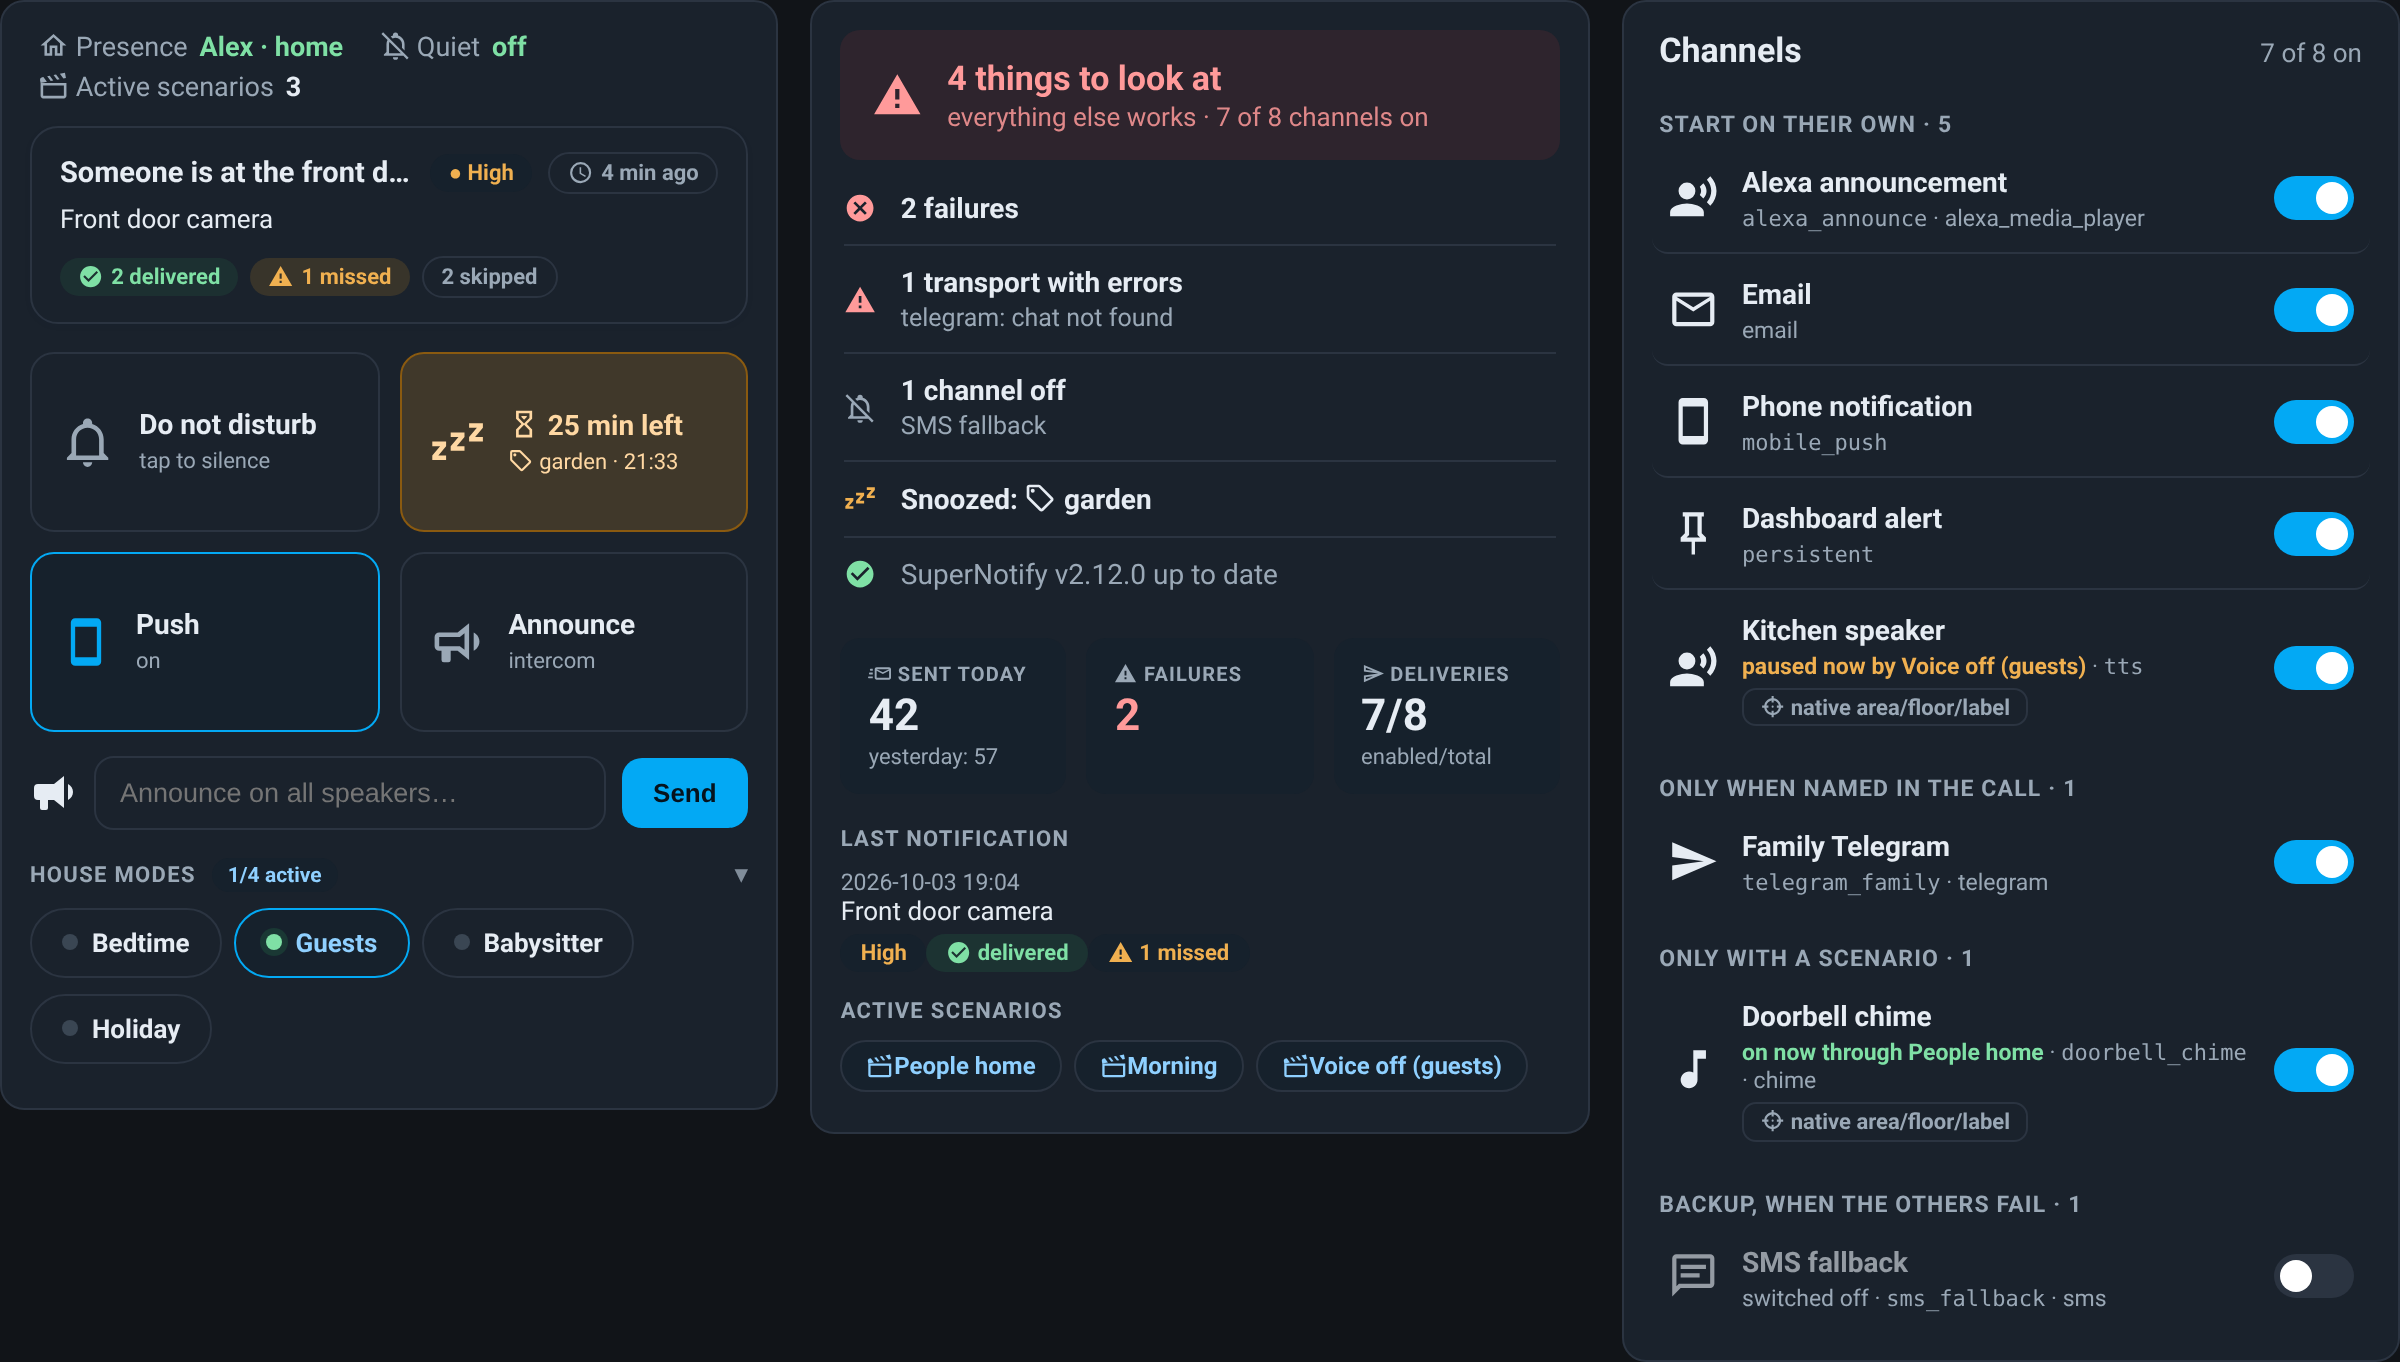
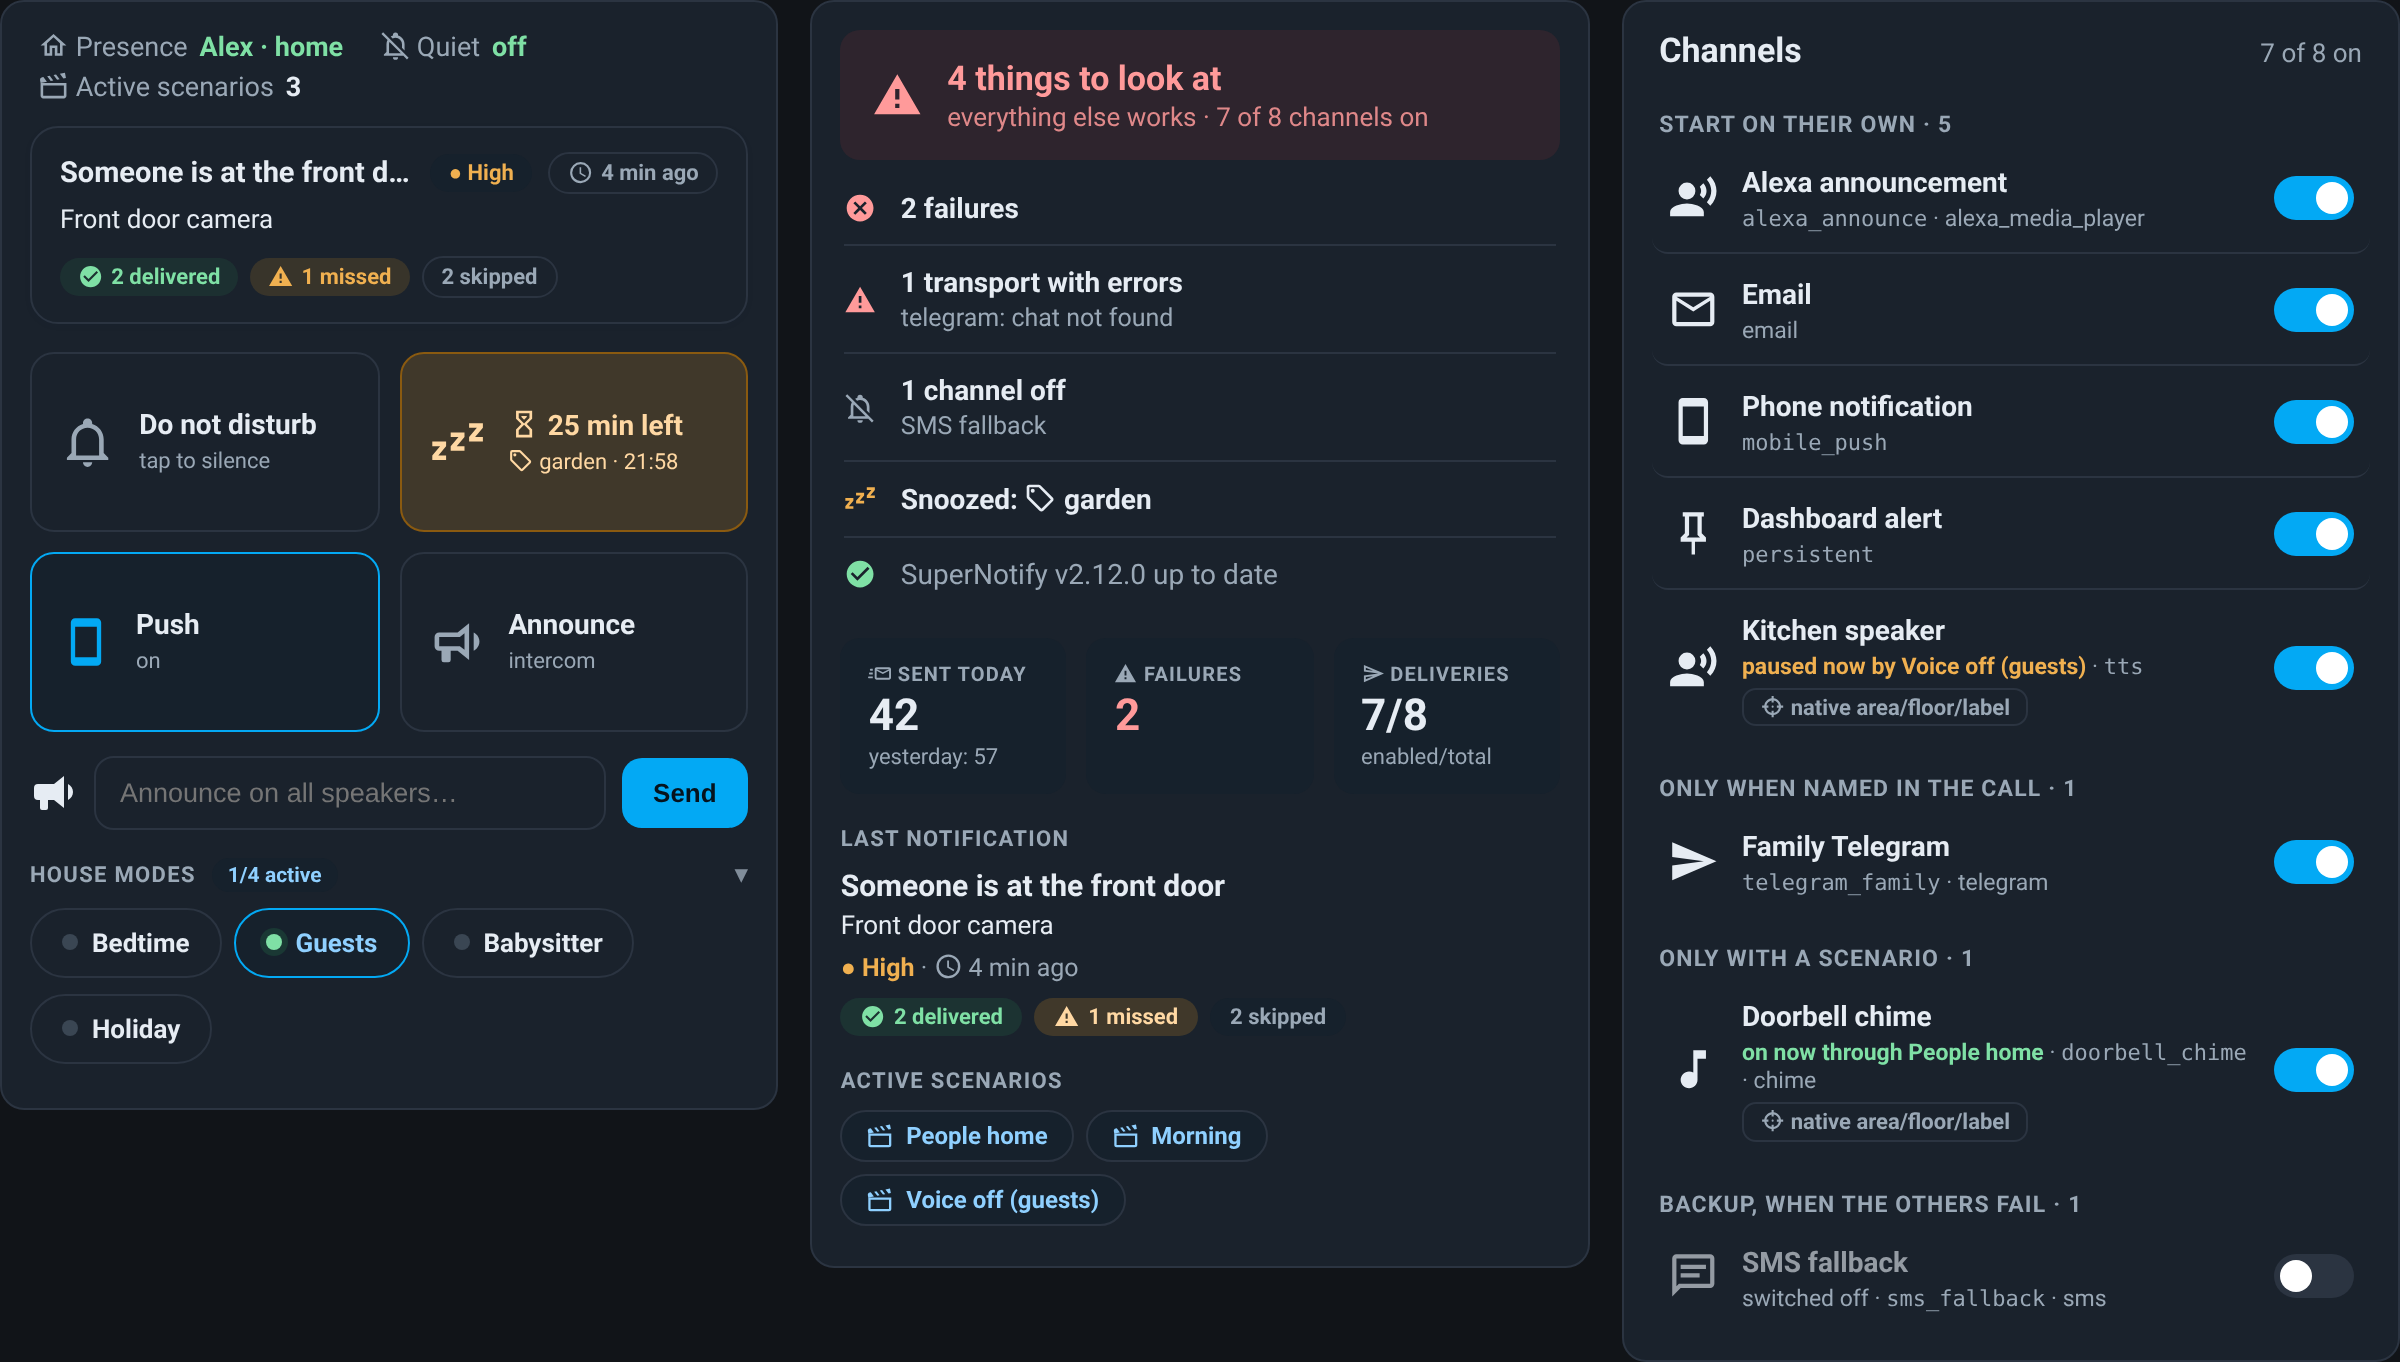
v0.56.1: overview 5 numbers without a hole, untitled message as plain text, markdown cleaned, scenario chip spacing
Claude-Session: https://claude.ai/code/session_01ALt6dhzSXi9QkgiwPM6yvM

Changed region(s): [[0.3438, 0.6476, 0.625, 0.8018], [0.3438, 0.8326, 0.5312, 0.8943]]

diff --git a/dist/supernotify-control-card.js b/dist/supernotify-control-card.js
@@ -8,6 +8,12 @@
  * Example config: see README.md
  *
  * CHANGELOG
+ * 2026-10-03 - v0.56.1. Fixes seen on a real dashboard: overview-card 0.28.1 - with `stats: full`
+ *   the five numbers sit 3+2 (one row when the card is wide) instead of leaving a hole, four sit
+ *   2+2; a last notification without a title is shown as plain text, not as a bold headline,
+ *   clamped to three lines instead of cut mid-word; space between icon and name in the scenario
+ *   chips. control-card 0.29.1 and overview: markdown in the message ([text](url), **bold**,
+ *   `code`) is shown as plain text (new shared helper snPlainMsg).
  * 2026-10-03 - v0.56.0. overview-card 0.28.0: the last notification reads like the control card's -
  *   title, message, priority and "4 min ago" instead of a raw timestamp, channel counts with the
  *   names in the tooltip ("2 delivered", "1 missed", "2 skipped"), and Why ›. `last_notification:
@@ -351,7 +357,7 @@
  *   Backup of the pre-change file: X:\sn_backups\supernotify_cards_20260908\supernotify-control-card_pre_toggle.js
  */
 
-const VERSION = "0.56.0"; // bundle / HACS release
+const VERSION = "0.56.1"; // bundle / HACS release
 
 /**
  * Per-card versions: bumped ONLY when that card changes (the bundle VERSION
@@ -362,8 +368,8 @@ const VERSION = "0.56.0"; // bundle / HACS release
  * without a bump here.
  */
 const SN_CARD_VERSIONS = {
-  control: "0.29.0",
-  overview: "0.28.0",
+  control: "0.29.1",
+  overview: "0.28.1",
   bands: "0.18.0",
   deliveries: "0.25.0",
   transports: "0.22.0",
@@ -783,6 +789,20 @@ function snIconify(html, cfg) {
  * Singular or plural (0.54.0): T[key + "_1"] when n is 1 and the language has a singular,
  * else T[key]. snPl() gives "1 channel off" / "3 channels off".
  */
+/**
+ * Message text for a card (0.56.1): markdown links become their text, **bold**, `code` and
+ * heading marks go, so "[Clock Weather Card Update](https://github.com/...)" reads as
+ * "Clock Weather Card Update" instead of the raw link.
+ */
+function snPlainMsg(s) {
+  return String(s == null ? "" : s)
+    .replace(/!?\[([^\]]*)\]\((?:[^()]|\([^)]*\))*\)/g, "$1")
+    .replace(/(\*\*|__)(.+?)\1/g, "$2")
+    .replace(/`([^`]+)`/g, "$1")
+    .replace(/^#{1,6}\s+/gm, "")
+    .replace(/[ \t]+\n/g, "\n").trim();
+}
+
 function snW(T, key, n) {
   return (+n === 1 && T[key + "_1"]) || T[key] || key;
 }
@@ -1953,7 +1973,7 @@ class SupernotifyControlCard extends HTMLElement {
     const n = this._last;
     const titleFromEntity = c.last_notification_entity ? this._st(c.last_notification_entity) : undefined;
     const title = (n && n.title) || (titleFromEntity && !["unknown", "unavailable", ""].includes(titleFromEntity) ? titleFromEntity : "");
-    let msg = (n && n.message) || "";
+    let msg = snPlainMsg(n && n.message);
     if (c.last_notification_strip) {
       try { msg = msg.replace(new RegExp(c.last_notification_strip, "m"), "").trim(); } catch (e) { /* bad regex: ignore */ }
     }
@@ -2343,9 +2363,19 @@ class SupernotifyOverviewCard extends HTMLElement {
     const p = this._palette();
     this.shadowRoot.innerHTML = snIconify(`
       <style>
-        :host { display: block; }
+        :host { display: block; container-type: inline-size; }
         ha-card { padding: 14px; background: ${p.panel}; color: ${p.ink}; }
         .stats { display: grid; grid-template-columns: repeat(auto-fit, minmax(110px, 1fr)); gap: 10px; }
+        /* 0.56.1: no hole in the grid - 4 numbers 2+2, 5 numbers 3+2 (one row when the card is wide) */
+        .stats[data-n="4"] { grid-template-columns: repeat(2, 1fr); }
+        .stats[data-n="5"] { grid-template-columns: repeat(6, 1fr); }
+        .stats[data-n="5"] .stat { grid-column: span 2; }
+        .stats[data-n="5"] .stat:nth-child(n+4) { grid-column: span 3; }
+        @container (min-width: 620px) {
+          .stats[data-n="4"] { grid-template-columns: repeat(4, 1fr); }
+          .stats[data-n="5"] { grid-template-columns: repeat(5, 1fr); }
+          .stats[data-n="5"] .stat, .stats[data-n="5"] .stat:nth-child(n+4) { grid-column: auto; }
+        }
         .stat { border: 0; border-radius: 10px; padding: 12px 14px; background: ${p.soft}; }
         .stat .k { font-size: 10px; letter-spacing: .06em; text-transform: uppercase;
                    font-weight: 800; color: ${p.muted}; white-space: nowrap; }
@@ -2363,12 +2393,15 @@ class SupernotifyOverviewCard extends HTMLElement {
         .b-crit { background: rgba(226,60,60,.12); color: ${p.crit}; }
         .lastmsg { font-size: 13px; }
         .lastmsg .t { color: ${p.muted}; font-size: 12.5px; margin-top: 3px; }
-        .lastmsg .lt { font-size: 15px; font-weight: 600; } .lastmsg .lmm { margin-top: 2px; }
+        .lastmsg .lt { font-size: 15px; font-weight: 600; overflow-wrap: anywhere; }
+        .lastmsg .lmm { margin-top: 2px; line-height: 1.45; overflow-wrap: anywhere; white-space: pre-line;
+                        display: -webkit-box; -webkit-box-orient: vertical; -webkit-line-clamp: 3; overflow: hidden; }
+        .lastmsg .lmm.solo { margin-top: 0; font-size: 14px; }
         .lastmsg .lf { display: flex; flex-wrap: wrap; gap: 6px; align-items: center; margin-top: 8px; }
         .lastmsg .badge { display: inline-flex; align-items: center; gap: 4px; }
         .whyb { margin-left: auto; border: 1.5px solid ${p.line}; background: ${p.panel}; color: ${p.brandD};
                 border-radius: 999px; padding: 5px 12px; font: inherit; font-size: 12px; font-weight: 700; cursor: pointer; }
-        .chip { display: inline-flex; border: 1.5px solid ${p.line}; border-radius: 999px;
+        .chip { display: inline-flex; align-items: center; gap: 6px; border: 1.5px solid ${p.line}; border-radius: 999px;
                 padding: 5px 12px; font-size: 12px; font-weight: 650; margin: 0 6px 6px 0;
                 background: ${p.soft}; color: ${p.brandD}; }
         .ver { text-align: right; font-size: 10px; color: ${p.muted}; opacity: .7; margin-top: 10px; }
@@ -2466,7 +2499,8 @@ class SupernotifyOverviewCard extends HTMLElement {
       }
       healthEl.innerHTML = snIconify(html, this && this._config);
     }
-    this.shadowRoot.getElementById("stats").innerHTML =
+    const statsEl = this.shadowRoot.getElementById("stats");
+    statsEl.innerHTML =
       snIconify(sentStat +
       stat("⚠ " + T.failures, failures != null ? esc(failures) : "—", "", +failures > 0 ? p.crit : p.ok) +
       (this._config.stats === "full" ? stat("🎬 " + T.act_scen, act ? act.length : "—", "") : "") +
@@ -2475,11 +2509,12 @@ class SupernotifyOverviewCard extends HTMLElement {
 
     // 0.56.0: same reading as the control card - title, message, priority and "4 min ago",
     // channel counts, Why ›. `last_notification: false` hides the block (the control card has it).
+    statsEl.dataset.n = statsEl.children.length;
     const lastEl = this.shadowRoot.getElementById("last");
     if (lastEl && this._last) {
       const n = this._last;
-      const title = n.title || "";
-      const msg = (n.message || "").slice(0, 140);
+      const title = snPlainMsg(n.title);
+      const msg = snPlainMsg(n.message).slice(0, 600);
       const prioCol = { critical: p.crit, high: p.warn, medium: p.brandD, low: p.muted, minimum: p.muted }[n.priority];
       const d = n.created ? new Date(n.created) : null;
       const meta = [n.priority ? `<span style="color:${prioCol || p.muted};font-weight:600">● ${esc(T["prio_" + n.priority] || n.priority)}</span>` : "",
@@ -2501,8 +2536,8 @@ class SupernotifyOverviewCard extends HTMLElement {
       if (+n.missed > 0) chips.push(`<span class="badge" style="background:${p.warnSoft};color:${p.warnInk}">⚠ ${snPl(T, "missed_n", +n.missed)}</span>`);
       if (skipped) chips.push(`<span class="badge b-off">${snPl(T, "skipped_n", skipped)}</span>`);
       const why = n.id && window.__snWhyCards ? `<button class="whyb" id="whyBtn">${esc(T.ln_why)} ›</button>` : "";
-      lastEl.innerHTML = snIconify(`<div class="lt">${esc(title || msg || "—")}</div>
-        ${title && msg ? `<div class="lmm">${esc(msg)}</div>` : ""}
+      lastEl.innerHTML = snIconify(`${title ? `<div class="lt">${esc(title)}</div>` : ""}
+        <div class="lmm${title ? "" : " solo"}">${esc(msg || "—")}</div>
         ${meta ? `<div class="t">${meta}</div>` : ""}
         <div class="lf">${chips.join("")}${why}</div>`, this && this._config);
       const wb = lastEl.querySelector("#whyBtn");

diff --git a/CHANGELOG.md b/CHANGELOG.md
@@ -3,6 +3,19 @@
 All notable changes to **supernotify-control-card** are documented here.
 Format based on [Keep a Changelog](https://keepachangelog.com/en/1.1.0/).
 
+## [0.56.1] - 2026-10-03
+
+Fixes seen on a real dashboard.
+
+### Fixed
+- overview-card 0.28.1: with `stats: full` the five numbers sit 3+2 (one row when the card is wide)
+  instead of leaving an empty cell; four numbers sit 2+2.
+- overview-card: a last notification without a title is shown as plain text, not as a bold headline,
+  and is clamped to three lines instead of being cut mid-word.
+- overview-card and control-card 0.29.1: markdown in the message (`[text](url)`, `**bold**`, `` `code` ``)
+  is shown as plain text instead of the raw link.
+- overview-card: space between the icon and the name in the active-scenario chips.
+
 ## [0.56.0] - 2026-10-03
 
 One way to read the last notification.
